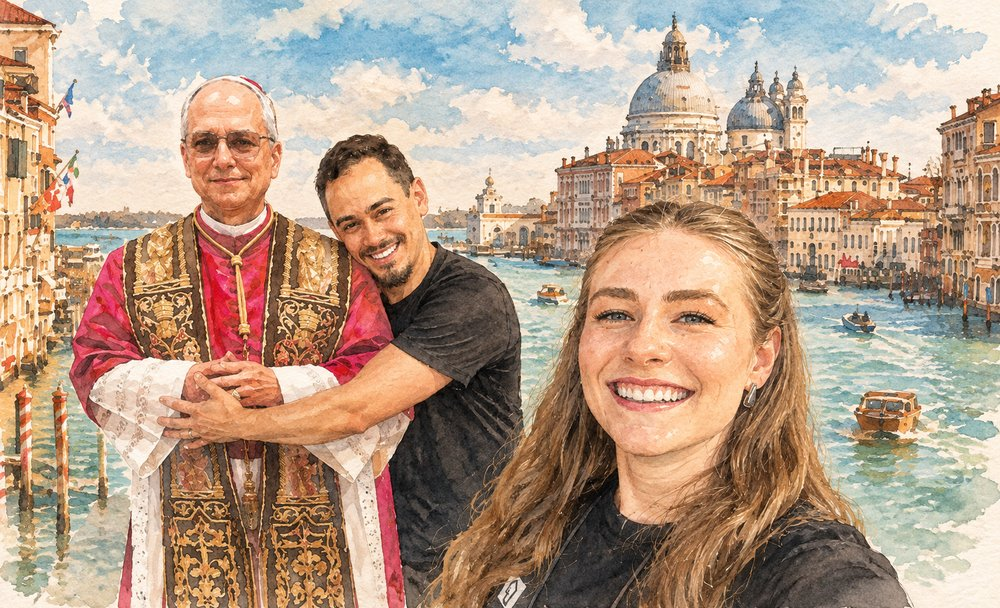
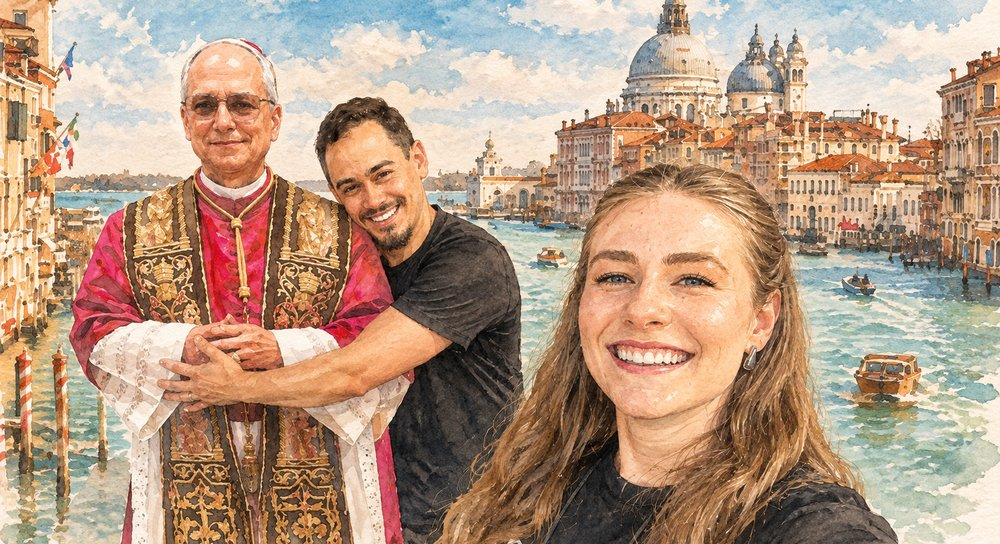
Recorta a foto do card Lua de Mel para incluir os três rostos completos
Nem ancorar pelo topo nem pelo fundo bastava: o bispo está bem mais
alto na composição que Willian e Jéssica, então qualquer altura fixa
com object-position cortava a cabeça de um ou o rosto de outro.

Em vez de tentar acertar isso via CSS, recorta a imagem estaticamente
(do topo da cabeça do bispo até o queixo da Jéssica, com margem) e
troca a altura fixa do card por aspect-ratio exata do recorte, para
o object-cover nunca mais precisar cortar nada.

Claude-Session: https://claude.ai/code/session_01LnzAL4Gt1cwkHAfYcbQojS

diff --git a/components/GiftCard.tsx b/components/GiftCard.tsx
@@ -74,13 +74,13 @@ export default function GiftCard({ gift, given, onMarkGiven }: GiftCardProps) {
     >
       <div>
         {gift.image && (
-          <div className="relative -mx-6 -mt-6 mb-4 h-36 overflow-hidden rounded-t-2xl sm:h-40">
+          <div className="relative -mx-6 -mt-6 mb-4 aspect-[1000/544] overflow-hidden rounded-t-2xl">
             <Image
               src={gift.image}
               alt=""
               fill
               sizes="(max-width: 640px) 90vw, 320px"
-              className="object-cover object-bottom"
+              className="object-cover"
             />
           </div>
         )}
